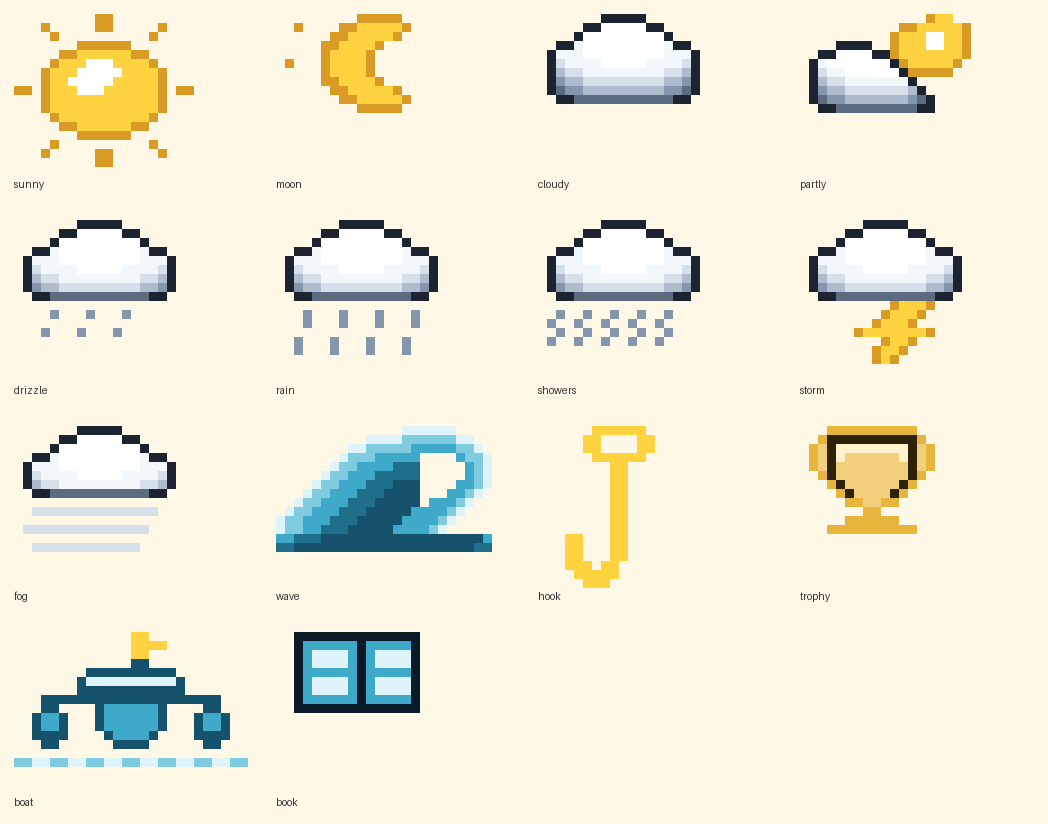
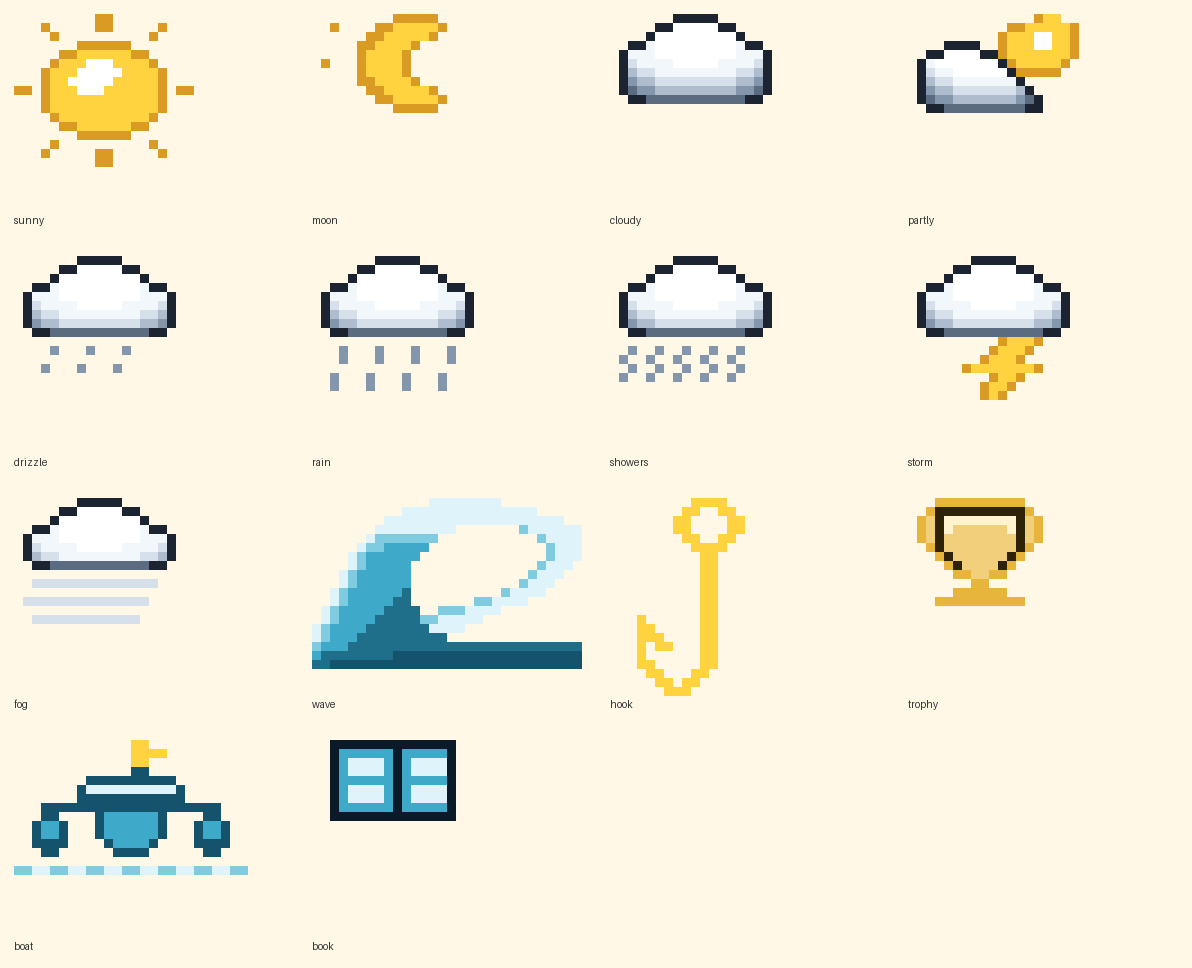
Redraw wave, hook and boat sprites
Wave: was two rounded humps, which read as hills rather than water. Now a breaking wave - the crest turns over to the right and the lip sweeps back left so the barrel is a wrapped hollow rather than a bite out of the shape. Tones run light foam on the crest through a midtone under the lip, into body and shadow blues at the waterline. An earlier attempt left only a few pixels between the face and the lip and merged into a flat ramp at icon size, so the hollow is now 8-11 columns wide.

Hook: was an abstract loop that read as a key at icon size. Now a traditional J-hook - small round eye, long straight shank, wide U-bend, and a barbed point rising up the left side, drawn two pixels thick so it does not look like bent wire.

Boat: was a generic launch. Now a bangka with bamboo outriggers, which is what people actually fish from in the province.

Icons are previewed with the colourway each one actually renders with in the app rather than a single palette - a wave judged in cloud-grey tells you nothing.

diff --git a/js/pixel.js b/js/pixel.js
@@ -361,40 +361,49 @@ export const ICONS = {
     '..MMMMMMMMMMMM......',
   ],
   wave: [
-    '..............LLLLLL....',
-    '..........LLLLMMMMMMLL..',
-    '........LLMMMMMBBBBBMML.',
-    '.......LMMMBBBBB....BMML',
-    '......LMMBBBBDDD.....BML',
-    '.....LMMBBBDDDDD.....BML',
-    '....LMMBBBDDDSSS....BBML',
-    '...LMMBBBDDDSSSS...BBML.',
-    '..LMMBBBDDDSSSSS.BBBML..',
-    '.LMMBBBDDDSSSSSBBBBML...',
-    'LMMBBBDDDSSSSSBBBBML....',
-    'LMMBBDDDSSSSSBBBBML.....',
-    'BBDDDSSSSSSSSSSSSSSSSSSB',
-    'DDSSSSSSSSSSSSSSSSSSSSDD',
+    '.............LLLLLLLL.........',
+    '..........LLLLLLLLLLLLLLL.....',
+    '........LLLLLLLLLLLLLLLLLLLL..',
+    '.......LLLLLLLLL.......MLLLLLL',
+    '......LMMMMMMM...........MLLLL',
+    '.....LMMBBBBB.............MLLL',
+    '....LMBBBBBB..............MLLL',
+    '....LMBBBBB..............MLLL.',
+    '...LMBBBBBB.............MLLL..',
+    '...LMBBBBBB............MLLL...',
+    '..LMBBBBBBD..........MLLLL....',
+    '..LMBBBBBDD.......MMLLLL......',
+    '.LMBBBBBDDDD..MMMLLLL.........',
+    '.LMBBBBDDDDDMMLLLLL...........',
+    'LMBBBBDDDDDDDLLLL.............',
+    'LMBBBDDDDDDDDDD...............',
+    'MBBBDDDDDDDDDDDDDDDDDDDDDDDDDD',
+    'BDDDDDDDDSSSSSSSSSSSSSSSSSSSSS',
+    'DDSSSSSSSSSSSSSSSSSSSSSSSSSSSS',
   ],
   hook: [
-    '......AAAAAA......',
-    '.....AA....AA.....',
-    '.....AA....AA.....',
-    '......AAAAAA......',
-    '........AA........',
-    '........AA........',
-    '........AA........',
-    '........AA........',
-    '........AA........',
-    '........AA........',
-    '........AA........',
-    '........AA........',
-    '...AA...AA........',
-    '...AA...AA........',
-    '...AA...AA........',
-    '...AAA.AA.........',
-    '....AAAAA.........',
-    '.....AAA..........',
+    '.........AAAA..',
+    '........AA..AA.',
+    '.......AA....AA',
+    '.......AA....AA',
+    '........AA..AA.',
+    '.........AAAA..',
+    '..........AA...',
+    '..........AA...',
+    '..........AA...',
+    '..........AA...',
+    '..........AA...',
+    '..........AA...',
+    '..........AA...',
+    '...A......AA...',
+    '...AA.....AA...',
+    '...AAA....AA...',
+    '...A.AA...AA...',
+    '...A......AA...',
+    '...AA.....AA...',
+    '....AA...AA....',
+    '.....AA.AA.....',
+    '......AAA......',
   ],
   trophy: [
     '...BBBBBBBBBB.....',

diff --git a/tools/icons.generated.js b/tools/icons.generated.js
@@ -138,40 +138,49 @@
     '..MMMMMMMMMMMM......',
   ],
   wave: [
-    '..............LLLLLL....',
-    '..........LLLLMMMMMMLL..',
-    '........LLMMMMMBBBBBMML.',
-    '.......LMMMBBBBB....BMML',
-    '......LMMBBBBDDD.....BML',
-    '.....LMMBBBDDDDD.....BML',
-    '....LMMBBBDDDSSS....BBML',
-    '...LMMBBBDDDSSSS...BBML.',
-    '..LMMBBBDDDSSSSS.BBBML..',
-    '.LMMBBBDDDSSSSSBBBBML...',
-    'LMMBBBDDDSSSSSBBBBML....',
-    'LMMBBDDDSSSSSBBBBML.....',
-    'BBDDDSSSSSSSSSSSSSSSSSSB',
-    'DDSSSSSSSSSSSSSSSSSSSSDD',
+    '.............LLLLLLLL.........',
+    '..........LLLLLLLLLLLLLLL.....',
+    '........LLLLLLLLLLLLLLLLLLLL..',
+    '.......LLLLLLLLL.......MLLLLLL',
+    '......LMMMMMMM...........MLLLL',
+    '.....LMMBBBBB.............MLLL',
+    '....LMBBBBBB..............MLLL',
+    '....LMBBBBB..............MLLL.',
+    '...LMBBBBBB.............MLLL..',
+    '...LMBBBBBB............MLLL...',
+    '..LMBBBBBBD..........MLLLL....',
+    '..LMBBBBBDD.......MMLLLL......',
+    '.LMBBBBBDDDD..MMMLLLL.........',
+    '.LMBBBBDDDDDMMLLLLL...........',
+    'LMBBBBDDDDDDDLLLL.............',
+    'LMBBBDDDDDDDDDD...............',
+    'MBBBDDDDDDDDDDDDDDDDDDDDDDDDDD',
+    'BDDDDDDDDSSSSSSSSSSSSSSSSSSSSS',
+    'DDSSSSSSSSSSSSSSSSSSSSSSSSSSSS',
   ],
   hook: [
-    '......AAAAAA......',
-    '.....AA....AA.....',
-    '.....AA....AA.....',
-    '......AAAAAA......',
-    '........AA........',
-    '........AA........',
-    '........AA........',
-    '........AA........',
-    '........AA........',
-    '........AA........',
-    '........AA........',
-    '........AA........',
-    '...AA...AA........',
-    '...AA...AA........',
-    '...AA...AA........',
-    '...AAA.AA.........',
-    '....AAAAA.........',
-    '.....AAA..........',
+    '.........AAAA..',
+    '........AA..AA.',
+    '.......AA....AA',
+    '.......AA....AA',
+    '........AA..AA.',
+    '.........AAAA..',
+    '..........AA...',
+    '..........AA...',
+    '..........AA...',
+    '..........AA...',
+    '..........AA...',
+    '..........AA...',
+    '..........AA...',
+    '...A......AA...',
+    '...AA.....AA...',
+    '...AAA....AA...',
+    '...A.AA...AA...',
+    '...A......AA...',
+    '...AA.....AA...',
+    '....AA...AA....',
+    '.....AA.AA.....',
+    '......AAA......',
   ],
   trophy: [
     '...BBBBBBBBBB.....',

diff --git a/tools/heroes.generated.js b/tools/heroes.generated.js
@@ -142,7 +142,7 @@
     '..............................OO.........',
     '.............................OAAO........',
     '.............................OAAO........',
-    '.............................OAAOO.......',
+    '.............................OAOOO.......',
     '.............................OAOOSOOO....',
     '.............................OOSSSSEO....',
     '........................OOOOOOSDDSEEEO...',

diff --git a/tools/author_sprites.py b/tools/author_sprites.py
@@ -607,51 +607,59 @@ ICONS = {
 '  MMMMMMMMMMMM      ',
 ],
 
-# Curling breaker: face rising left to right, crest turning over into a
-# hollow barrel, foam down the face. Modelled on the reference art rather
-# than the twin humps this used to be.
-# Curling breaker: face rises left to right, crest turns over into a hollow
-# barrel, foam cap on top. Kept to four tones so it still reads at 40px.
+# Curling breaker. The barrel is the whole point: the crest turns over to the
+# right and the pocket beneath it is left EMPTY, so the hollow reads as the
+# tube. Foam (L) rides the crest and the face; the body darkens downward
+# through B and D into S at the waterline.
 'wave': [
-'                        ',
-'              LLLLLL    ',
-'          LLLLMMMMMMLL  ',
-'        LLMMMMMBBBBBMML ',
-'       LMMMBBBBB    BMML',
-'      LMMBBBBDDD     BML',
-'     LMMBBBDDDDD     BML',
-'    LMMBBBDDDSSS    BBML',
-'   LMMBBBDDDSSSS   BBML ',
-'  LMMBBBDDDSSSSS BBBML  ',
-' LMMBBBDDDSSSSSBBBBML   ',
-'LMMBBBDDDSSSSSBBBBML    ',
-'LMMBBDDDSSSSSBBBBML     ',
-'BBDDDSSSSSSSSSSSSSSSSSSB',
-'DDSSSSSSSSSSSSSSSSSSSSDD',
+'',
+'             LLLLLLLL',
+'          LLLLLLLLLLLLLLL',
+'        LLLLLLLLLLLLLLLLLLLL',
+'       LLLLLLLLL       MLLLLLL',
+'      LMMMMMMM           MLLLL',
+'     LMMBBBBB             MLLL',
+'    LMBBBBBB              MLLL',
+'    LMBBBBB              MLLL',
+'   LMBBBBBB             MLLL',
+'   LMBBBBBB            MLLL',
+'  LMBBBBBBD          MLLLL',
+'  LMBBBBBDD       MMLLLL',
+' LMBBBBBDDDD  MMMLLLL',
+' LMBBBBDDDDDMMLLLLL',
+'LMBBBBDDDDDDDLLLL',
+'LMBBBDDDDDDDDDD',
+'MBBBDDDDDDDDDDDDDDDDDDDDDDDDDD',
+'BDDDDDDDDSSSSSSSSSSSSSSSSSSSSS',
+'DDSSSSSSSSSSSSSSSSSSSSSSSSSSSS',
 ],
 
-# Traditional J-hook: eye at the top, straight shank, U-bend, point turning
-# back up. Strokes are 2px — a 1px line reads as spindly noise at 40px, and
-# an added barb turned the bend into an unreadable tangle.
+# Traditional J-hook: round eye, straight shank, U-bend, and a barbed point
+# rising on the left. Two pixels thick — a one-pixel version reads as bent
+# wire at icon size. The point tapers to a single pixel so it looks sharp.
 'hook': [
-'      AAAAAA      ',
-'     AA    AA     ',
-'     AA    AA     ',
-'      AAAAAA      ',
-'        AA        ',
-'        AA        ',
-'        AA        ',
-'        AA        ',
-'        AA        ',
-'        AA        ',
-'        AA        ',
-'        AA        ',
-'   AA   AA        ',
-'   AA   AA        ',
-'   AA   AA        ',
-'   AAA AA         ',
-'    AAAAA         ',
-'     AAA          ',
+'         AAAA',
+'        AA  AA',
+'       AA    AA',
+'       AA    AA',
+'        AA  AA',
+'         AAAA',
+'          AA',
+'          AA',
+'          AA',
+'          AA',
+'          AA',
+'          AA',
+'          AA',
+'   A      AA',
+'   AA     AA',
+'   AAA    AA',
+'   A AA   AA',
+'   A      AA',
+'   AA     AA',
+'    AA   AA',
+'     AA AA',
+'      AAA',
 ],
 
 'trophy': [
